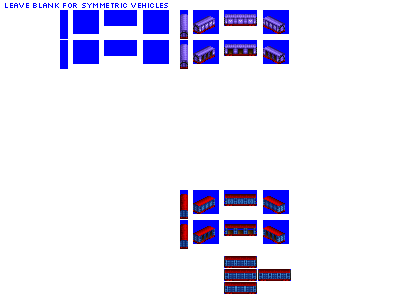
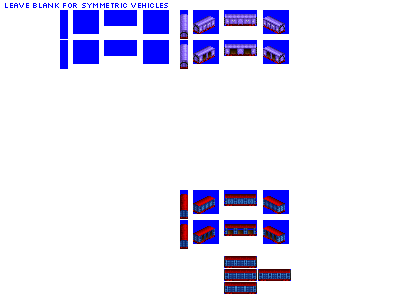
Change: add missing gen 3C express van

Changed region(s): [[0.45, 0.03, 0.72, 0.24]]

diff --git a/src/vehicles/pony/express_cars_type_2_pony.py b/src/vehicles/pony/express_cars_type_2_pony.py
@@ -90,21 +90,21 @@ def main(**kwargs):
 
     result.append(model_def)
 
-    #     model_def = ModelDef(
-    #         schema_name="ExpressCarType2",
-    #         base_numeric_id=25870,
-    #         gen=3,
-    #         subtype="C",
-    #         sprites_complete=True,
-    #     )
-    #
-    #     model_def.add_unit_def(
-    #         schema_name="ExpressCarUnit",
-    #         suppress_roof_sprite=True,  # non-standard roof for this wagon
-    #         chassis="4_axle_solid_express_32px",
-    #     )
-    #
-    #     result.append(model_def)
+    model_def = ModelDef(
+        schema_name="ExpressCarType2",
+        base_numeric_id=25100,
+        gen=3,
+        subtype="C",
+        sprites_complete=True,
+    )
+
+    model_def.add_unit_def(
+        unit_cls_name="ExpressCarUnit",
+        suppress_roof_sprite=True,  # non-standard roof for this wagon
+        chassis="4_axle_solid_express_32px",
+    )
+
+    result.append(model_def)
 
     model_def = ModelDef(
         schema_name="ExpressCarType2",

diff --git a/src/vehicles/pony/express_cars_randomised_pony.py b/src/vehicles/pony/express_cars_randomised_pony.py
@@ -32,6 +32,18 @@ def main(**kwargs):
 
     model_def = ModelDef(
         schema_name="ExpressCarRandomised",
+        base_numeric_id=32520,
+        gen=3,
+        subtype="C",
+        sprites_complete=True,
+    )
+
+    model_def.add_unit_def(unit_cls_name="ExpressCarUnit", chassis="empty_32px")
+
+    result.append(model_def)
+
+    model_def = ModelDef(
+        schema_name="ExpressCarRandomised",
         base_numeric_id=29470,
         gen=4,
         subtype="A",

diff --git a/src/vehicles/pony/express_cars_type_1_pony.py b/src/vehicles/pony/express_cars_type_1_pony.py
@@ -92,7 +92,7 @@ def main(**kwargs):
 
     model_def = ModelDef(
         schema_name="ExpressCarType1",
-        base_numeric_id=25100,
+        base_numeric_id=32770,
         gen=3,
         subtype="C",
         sprites_complete=True,
